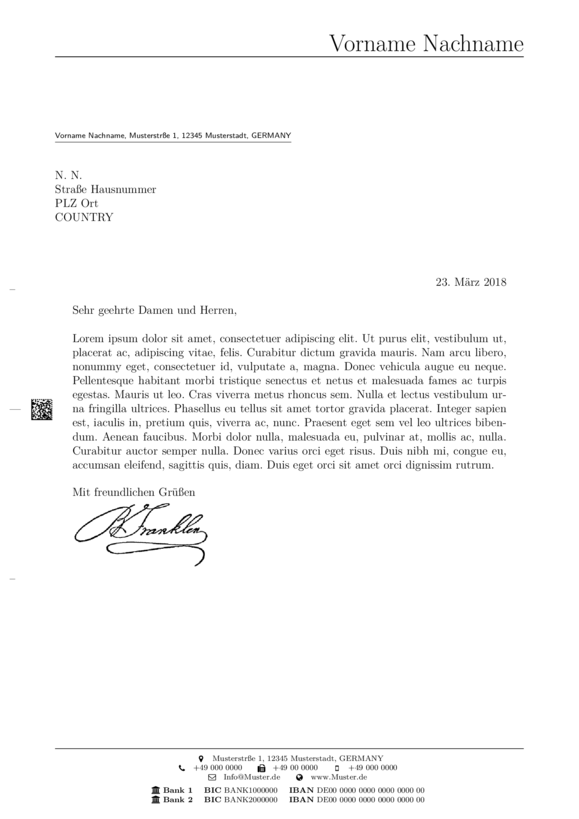
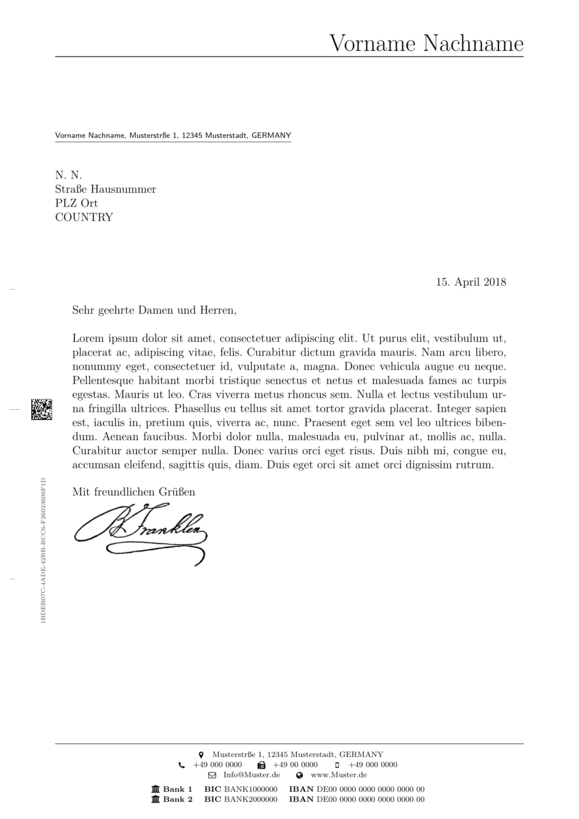
updated letter as to only generate a document ID when there is none (i. e. if there is already a document ID, it won't be replaced)
the document ID is now stored in the '.doc-id' file

diff --git a/helpers/macros.tex b/helpers/macros.tex
@@ -144,7 +144,7 @@
         pdftitle={\pdftitle},
         pdfauthor={\pdfauthor},
         pdfsubject={\pdfsubject},
-        pdfkeywords={\UUID{documentid}}
+        pdfkeywords={\getdocumentid}
     }
 }
 
@@ -153,7 +153,19 @@
 % declare a layer for the barcode and add it to every odd page
 % (if using 'oneside' option instead of 'twoside=semi' option for scrlttr2,
 % the barcode is added to every page)
-\generateUUID{documentid}
+
+% command to get the document id from file
+\CatchFileDef{\getdocumentid}{.doc-id}{\endlinechar=-1\relax}
+
+\IfFileExists{./.doc-id}{}{
+    % if there is no document ID, generate one and save it
+    \generateUUID{documentid}
+
+    \newwrite\tempfile
+	\immediate\openout\tempfile=.doc-id
+	\immediate\write\tempfile{\UUID{documentid}}
+	\immediate\closeout\tempfile
+}
 
 \newlength \barcodesize
 \setlength{\barcodesize}{0.3in}
@@ -165,7 +177,7 @@
 	voffset={0.5 \paperheight - 0.5 \barcodesize},
     contents={\hspace{1cm}
         \begin{pspicture}[](\barcodesize, \barcodesize)
-            \psbarcode{\UUID{documentid}}{width=0.3 height=0.3}{datamatrix}
+				\psbarcode[file]{.doc-id}{width=0.3 height=0.3}{datamatrix}
         \end{pspicture}
     }
 ]{barcode-layer}
@@ -178,7 +190,7 @@
     voffset={0.75 \paperheight},
     contents={\hspace{1.5cm} \tiny
         \begin{rotate}{90}
-            \color{darkgray} \UUID{documentid}
+				\color{darkgray} \getdocumentid
         \end{rotate}
     }
 ]{documentid-layer}

diff --git a/main.tex b/main.tex
@@ -30,6 +30,7 @@
 \usepackage{rotating}
 \usepackage{xcolor}
 \usepackage{setspace}
+\usepackage{catchfile}
 \defaultfontfeatures{Ligatures=TeX}
 
 \usepackage{lipsum}
